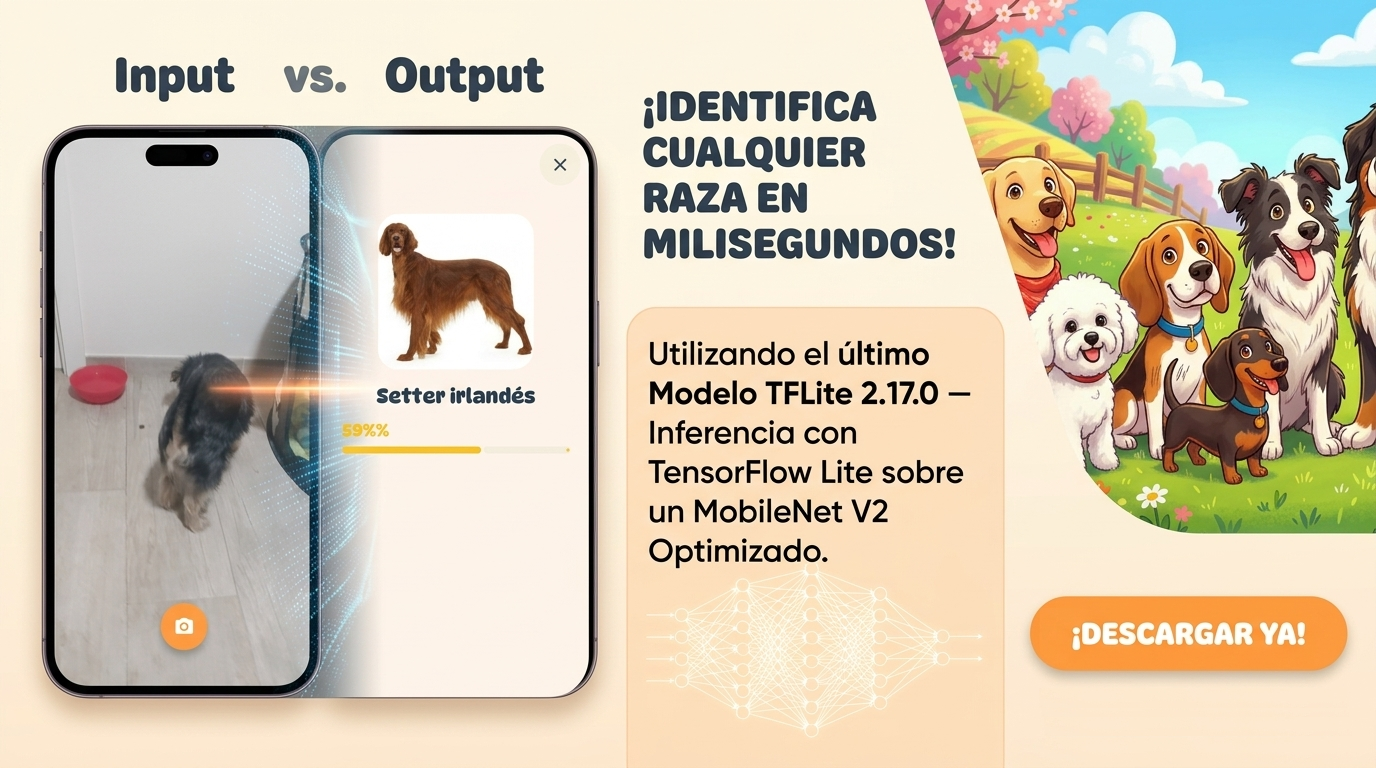
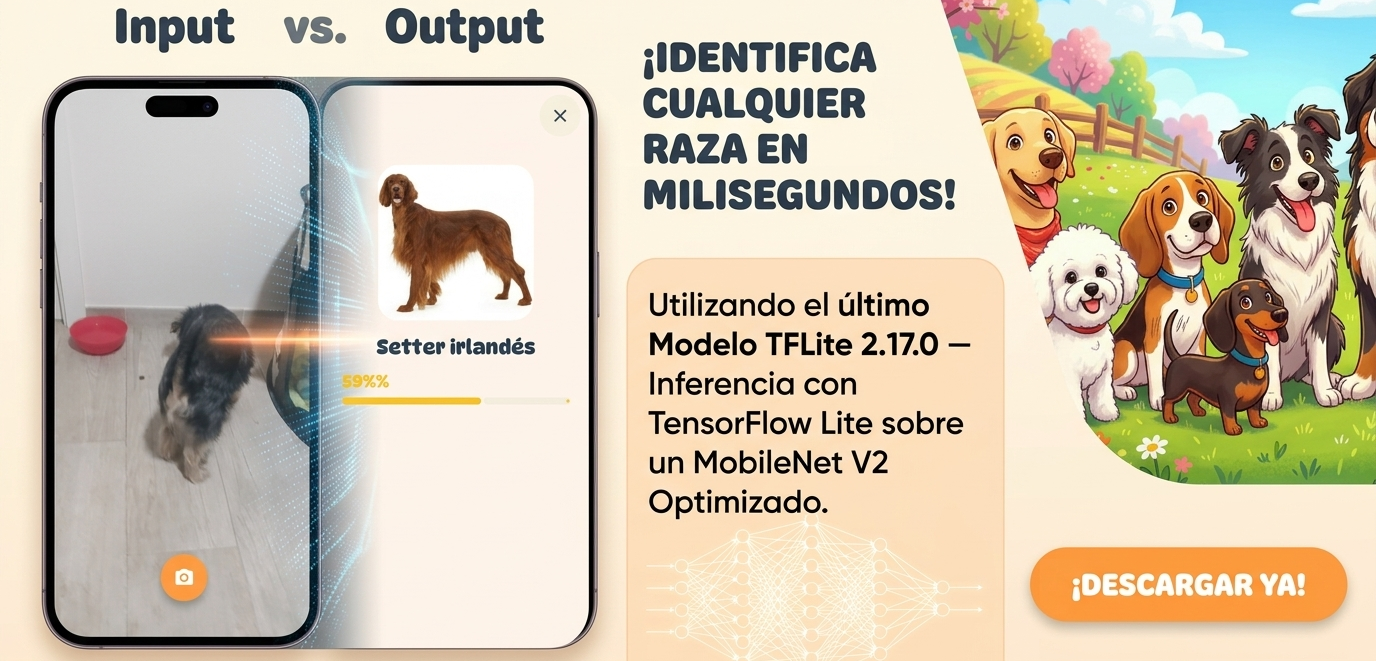
chore: clean up recognition confidence display and update README
Replace string resource for confidence percentage with inline
formatting, remove unused recognition_confidence string entries,
update README layout for Edge AI section, and optimize banner image.

diff --git a/app/src/commonMain/kotlin/com/alvaroquintana/adivinaperro/ui/recognition/RecognitionScreen.kt b/app/src/commonMain/kotlin/com/alvaroquintana/adivinaperro/ui/recognition/RecognitionScreen.kt
@@ -5,7 +5,6 @@ import adivinaraza.app.generated.resources.recognition_analyzing
 import adivinaraza.app.generated.resources.recognition_best_match
 import adivinaraza.app.generated.resources.recognition_capture
 import adivinaraza.app.generated.resources.recognition_close
-import adivinaraza.app.generated.resources.recognition_confidence
 import adivinaraza.app.generated.resources.recognition_error
 import adivinaraza.app.generated.resources.recognition_not_recognized
 import adivinaraza.app.generated.resources.recognition_not_recognized_subtitle
@@ -411,7 +410,7 @@ private fun ConfidenceBar(percent: Int) {
             verticalAlignment = Alignment.CenterVertically
         ) {
             Text(
-                text = stringResource(Res.string.recognition_confidence, percent),
+                text = "$percent%",
                 fontFamily = dynaPuffFamily(),
                 fontWeight = FontWeight.Bold,
                 fontSize = 20.sp,
@@ -525,7 +524,7 @@ private fun ConfidenceBadge(percent: Int) {
         color = confidenceColor(percent).copy(alpha = 0.12f)
     ) {
         Text(
-            text = stringResource(Res.string.recognition_confidence, percent),
+            text = "$percent%",
             modifier = Modifier.padding(horizontal = 10.dp, vertical = 5.dp),
             fontFamily = dynaPuffFamily(),
             fontWeight = FontWeight.Bold,

diff --git a/README.md b/README.md
@@ -32,11 +32,23 @@ It is also a production-grade reference for:
 
 ## Edge AI: Breed Recognition
 
-<table align="center">
+AdivinaRaza ships with a **MobileNet V2** model optimised and compiled to **TensorFlow Lite**, running inference **100% on-device** with zero network dependency.
+
+<table>
   <tr>
     <td width="50%">
 
-AdivinaRaza ships with a **MobileNet V2** model optimised and compiled to **TensorFlow Lite**, running inference **100% on-device** with zero network dependency.
+**Key specs:**
+| Metric           | Value                    |
+| ---------------- | ------------------------ |
+| Model            | MobileNet V2 (optimised) |
+| Input            | 224×224 RGB              |
+| Classes          | 120 breeds               |
+| Latency          | ~milliseconds on-device  |
+| Network required | No                       |
+
+</td>
+    <td width="50%">
 
 **How it works (Android):**
 1. Camera captures a photo via CameraX
@@ -45,19 +57,7 @@ AdivinaRaza ships with a **MobileNet V2** model optimised and compiled to **Tens
 4. Top 5 predictions are displayed with confidence percentages
 5. Tap any result to see full breed details
 
-**Key specs:**
-| Metric               | Value                    |
-| -------------------- | ------------------------ |
-| Model                | MobileNet V2 (optimised) |
-| Input                | 224×224 RGB              |
-| Classes              | 120 breeds               |
-| Latency              | ~milliseconds on-device  |
-| Network required     | No                       |
-
 </td>
-    <td width="50%" align="center">
-      <img src="docs/images/store/dog_recognize_banner.png" width="360" alt="Edge AI breed recognition">
-    </td>
   </tr>
 </table>
 
@@ -75,17 +75,6 @@ The `BreedClassifier` interface lives in `commonMain` — Android provides the p
     <td align="center"><img src="docs/images/store/breed_information.jpg" width="220"><br/><sub>Breed detail & care info</sub></td>
   </tr>
 </table>
-
----
-
-## Game Modes
-
-| Mode                     | What you guess                                       |
-| ------------------------ | ---------------------------------------------------- |
-| **Classic**              | Dog breed from its photo                             |
-| **Bigger or Smaller**    | Which breed is heavier or taller between two options |
-| **Guess by Description** | Dog breed from a text description of its traits      |
-| **FCI Trivia**           | FCI group classification for a given breed           |
 
 ---
 
@@ -188,7 +177,7 @@ All tests run on the JVM — no device, no emulator. Every push and pull request
 
 | Module     | Tests  | What's covered                                                                                                                                                                |
 | ---------- | ------ | ----------------------------------------------------------------------------------------------------------------------------------------------------------------------------- |
-| `app`      | 32     | ViewModels (`GameViewModel`, `BiggerSmallerViewModel`, `DescriptionViewModel`, `FciTriviaViewModel`, `InfoViewModel`, `ResultViewModel`, `RecognitionViewModel`) |
+| `app`      | 32     | ViewModels (`GameViewModel`, `BiggerSmallerViewModel`, `DescriptionViewModel`, `FciTriviaViewModel`, `InfoViewModel`, `ResultViewModel`, `RecognitionViewModel`)              |
 | `usecases` | 14     | `GetBreedById`, `GetBreedList`, `GetRandomBreedsWithWeight`, `GetRandomBreedsWithDescription`, `GetRandomBreedsWithFciGroup`, `GetRandomBreedsWithCare`, `GetAppsRecommended` |
 | `data`     | 13     | `BreedByIdRepository`, `AppsRecommendedRepository`, `BreedEsMapper`                                                                                                           |
 | **Total**  | **59** | **0 failures · 0 flaky · 0 skipped**                                                                                                                                          |